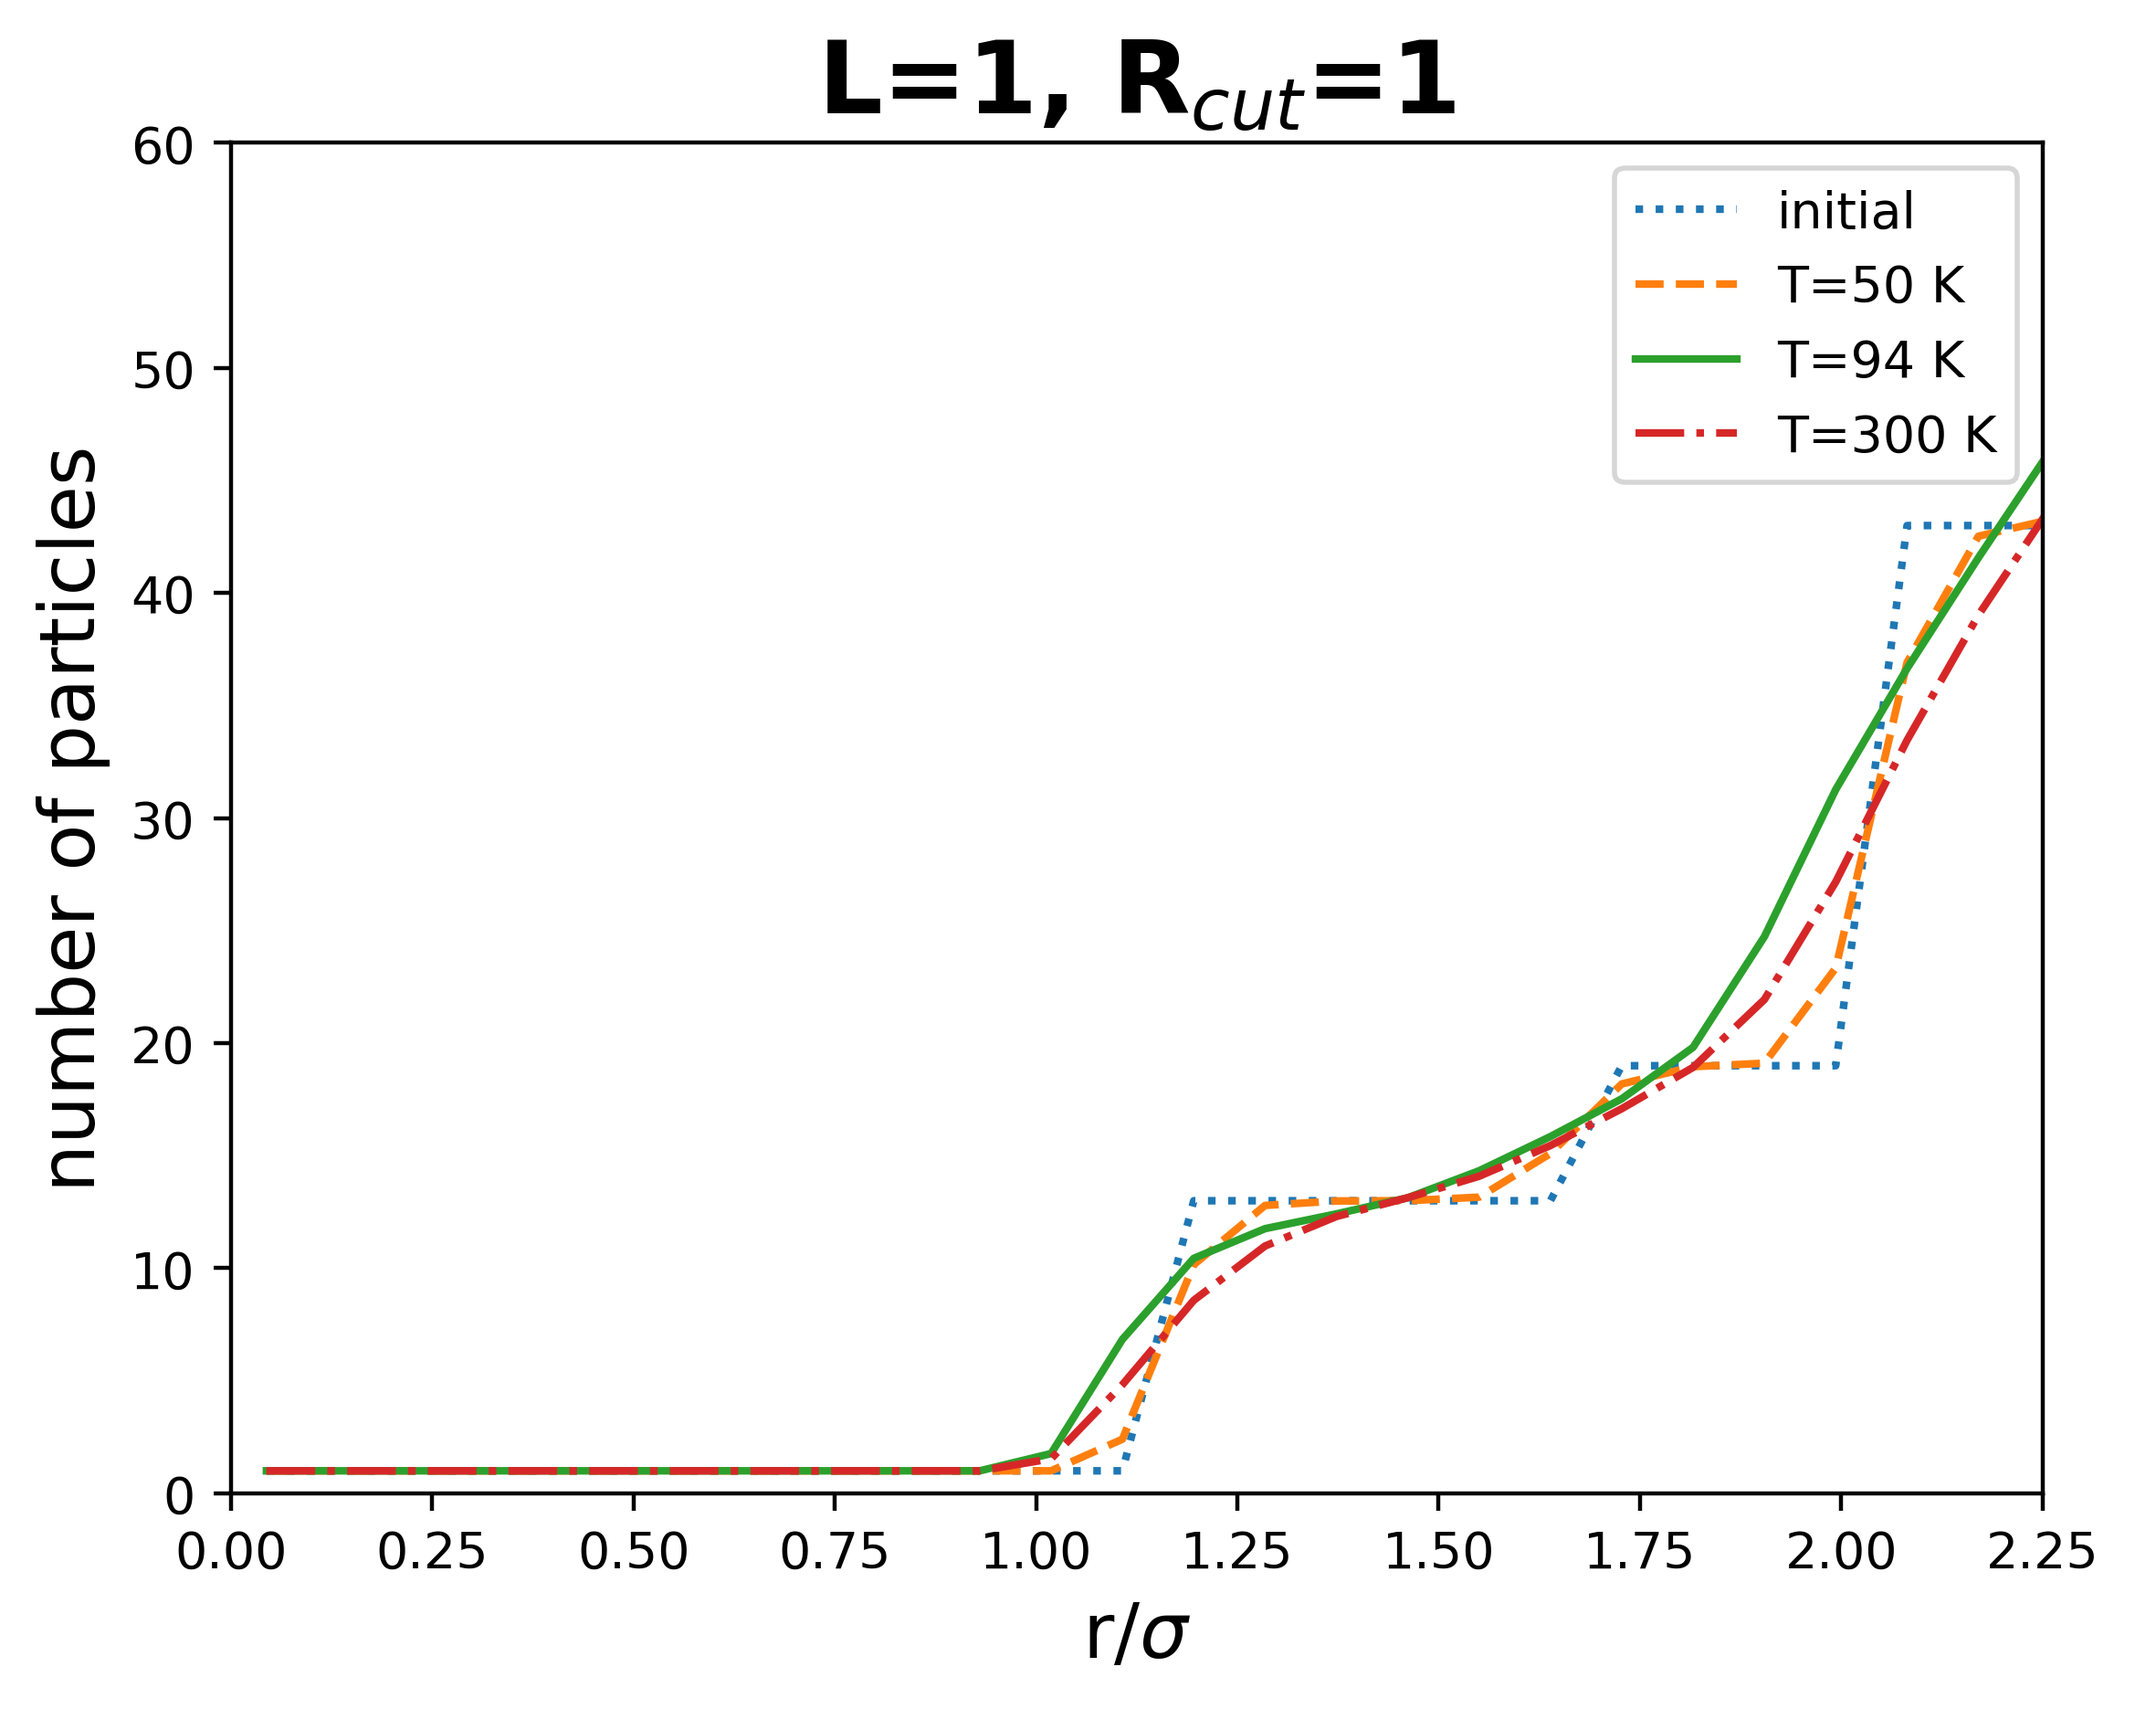
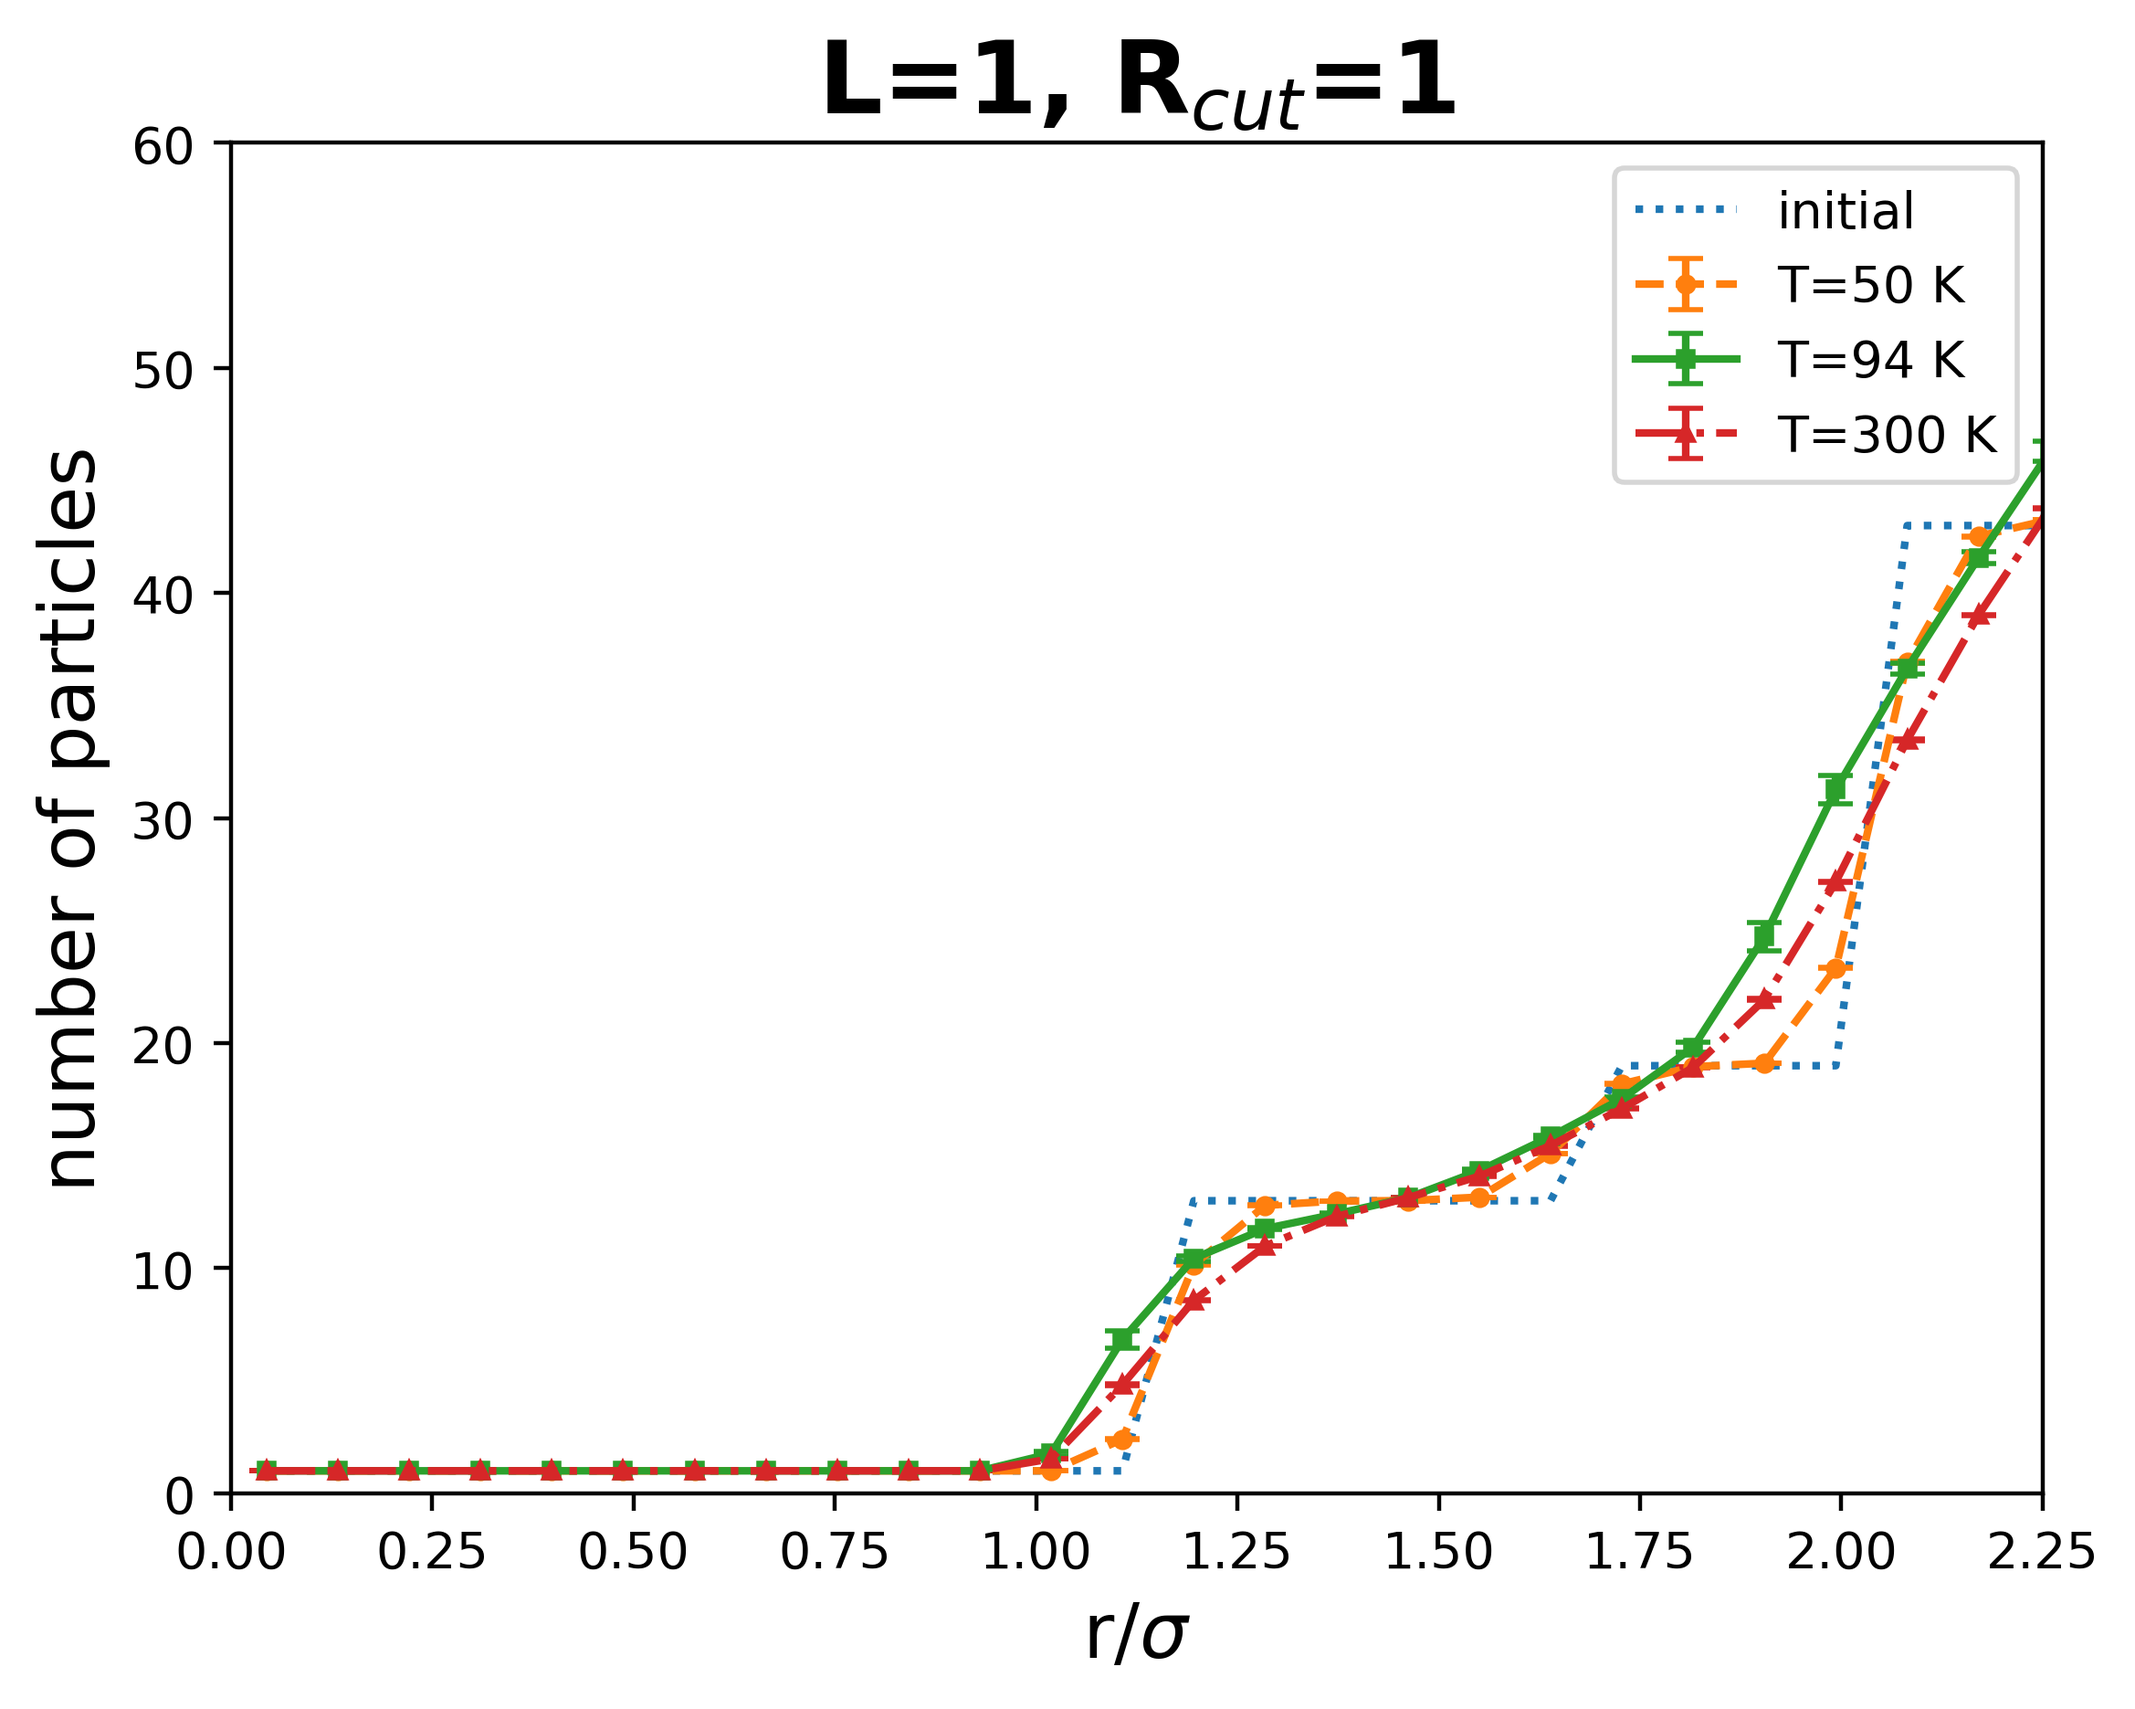
added errors to the cdf

diff --git a/RDF.py b/RDF.py
@@ -67,15 +67,13 @@ class RDF(MolDyn):
 
     # combine multiple CDF from different time steps
     def combine_cdf(self):
-        x_vals, avg, _ = self.combine_rdf()
-        running_sum = (
-            np.cumsum(avg * self.bin_centers**2)
-            * self.dr
-            * 4
-            * np.pi
-            * self.N
-            / self.L**3
-        )
-        # to include particle less than sigma
-        running_sum = running_sum + 1
-        return x_vals, running_sum
+        snapshots = np.linspace(self.equilibration, self.Niter, num=8, endpoint=False)
+        cdf_config = np.empty([len(snapshots), self.bin_num])
+
+        for count, t in enumerate(snapshots):
+            x_vals, running_sum = self.get_specific_cdf(int(t))
+            cdf_config[count] = running_sum
+
+        avg = np.mean(cdf_config, axis=0)
+        errors = np.std(cdf_config, axis=0, ddof=1) / np.sqrt(len(snapshots))
+        return x_vals, avg, errors

diff --git a/instances.py b/instances.py
@@ -15,7 +15,7 @@ dpi = 400
 """
 change these parameters
 """
-temp = 300
+temp = 50
 box_scale = 1
 rcut_scale = 1
 thermo_rate = 10
@@ -209,9 +209,9 @@ fig, ax = plt.subplots()
 ins_50.plot_specific_cdf(
     time_snapshot=0, label=r"initial", fig=fig, ax=ax, linestyle=":"
 )
-ins_50.plot_cdf(label=f"T={ins_50.Temp} K", fig=fig, ax=ax, linestyle="--")
-ins_94.plot_cdf(label=f"T={ins_94.Temp} K", fig=fig, ax=ax, linestyle="-")
-ins_300.plot_cdf(label=f"T={ins_300.Temp} K", fig=fig, ax=ax, linestyle="-.")
+ins_50.plot_cdf(label=f"T={ins_50.Temp} K", fig=fig, ax=ax, linestyle="--", fmt="o")
+ins_94.plot_cdf(label=f"T={ins_94.Temp} K", fig=fig, ax=ax, linestyle="-", fmt="s")
+ins_300.plot_cdf(label=f"T={ins_300.Temp} K", fig=fig, ax=ax, linestyle="-.", fmt="^")
 
 ax.set_title(
     rf"L={box_scale}, R$_{{cut}}$={rcut_scale}",

diff --git a/Plots.py b/Plots.py
@@ -95,9 +95,18 @@ class Plots(RDF):
         ax.set_ylim(0)
         ax.legend()
 
-    def plot_cdf(self, label, fig, ax, linestyle="-"):
-        x_vals, running_sum = self.combine_cdf()
-        ax.plot(x_vals / self.sigma, running_sum, label=label, linestyle=linestyle)
+    def plot_cdf(self, label, fig, ax, linestyle="-", fmt="o"):
+        x_vals, avg, errors = self.combine_cdf()
+        ax.errorbar(
+            x_vals / self.sigma,
+            avg,
+            yerr=errors,
+            markersize=3,
+            fmt=fmt,
+            capsize=3.5,
+            label=label,
+            linestyle=linestyle,
+        )
         ax.set_ylabel("number of particles", fontsize=15)
         ax.set_xlabel(r"r/$\sigma$", fontsize=15)
         ax.set_xlim(0, self.L * np.sqrt(3) / (2 * self.sigma))
